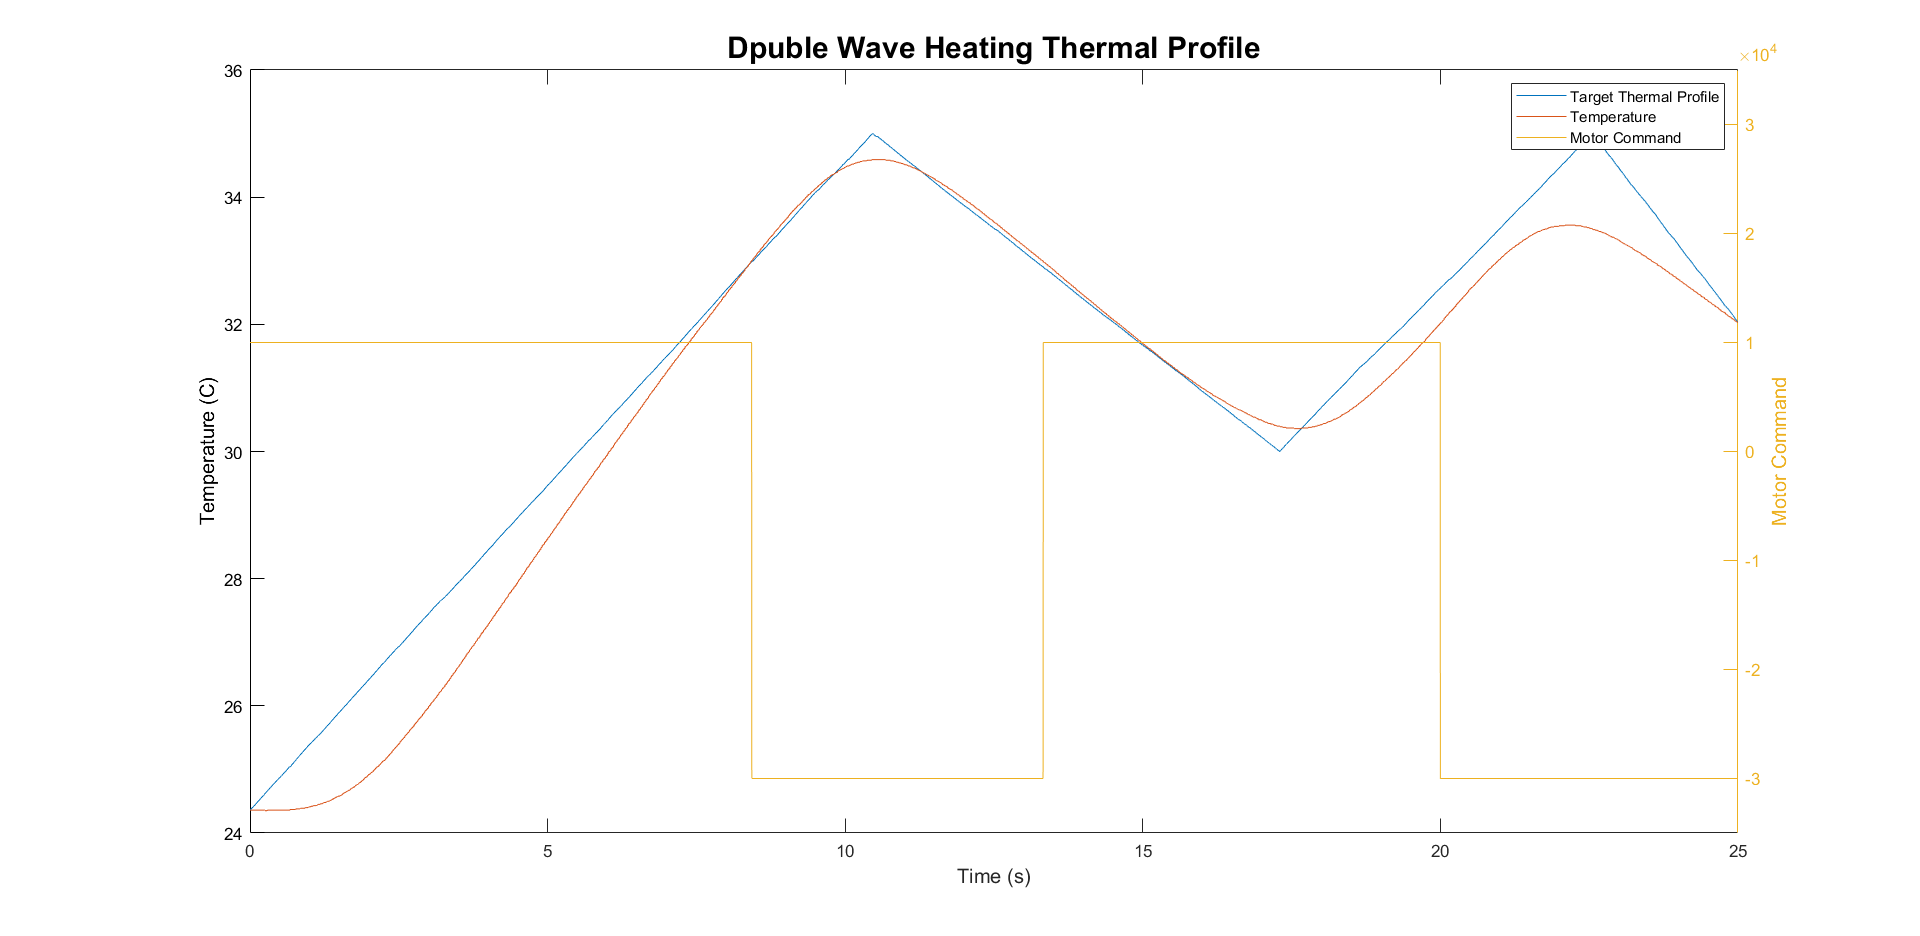
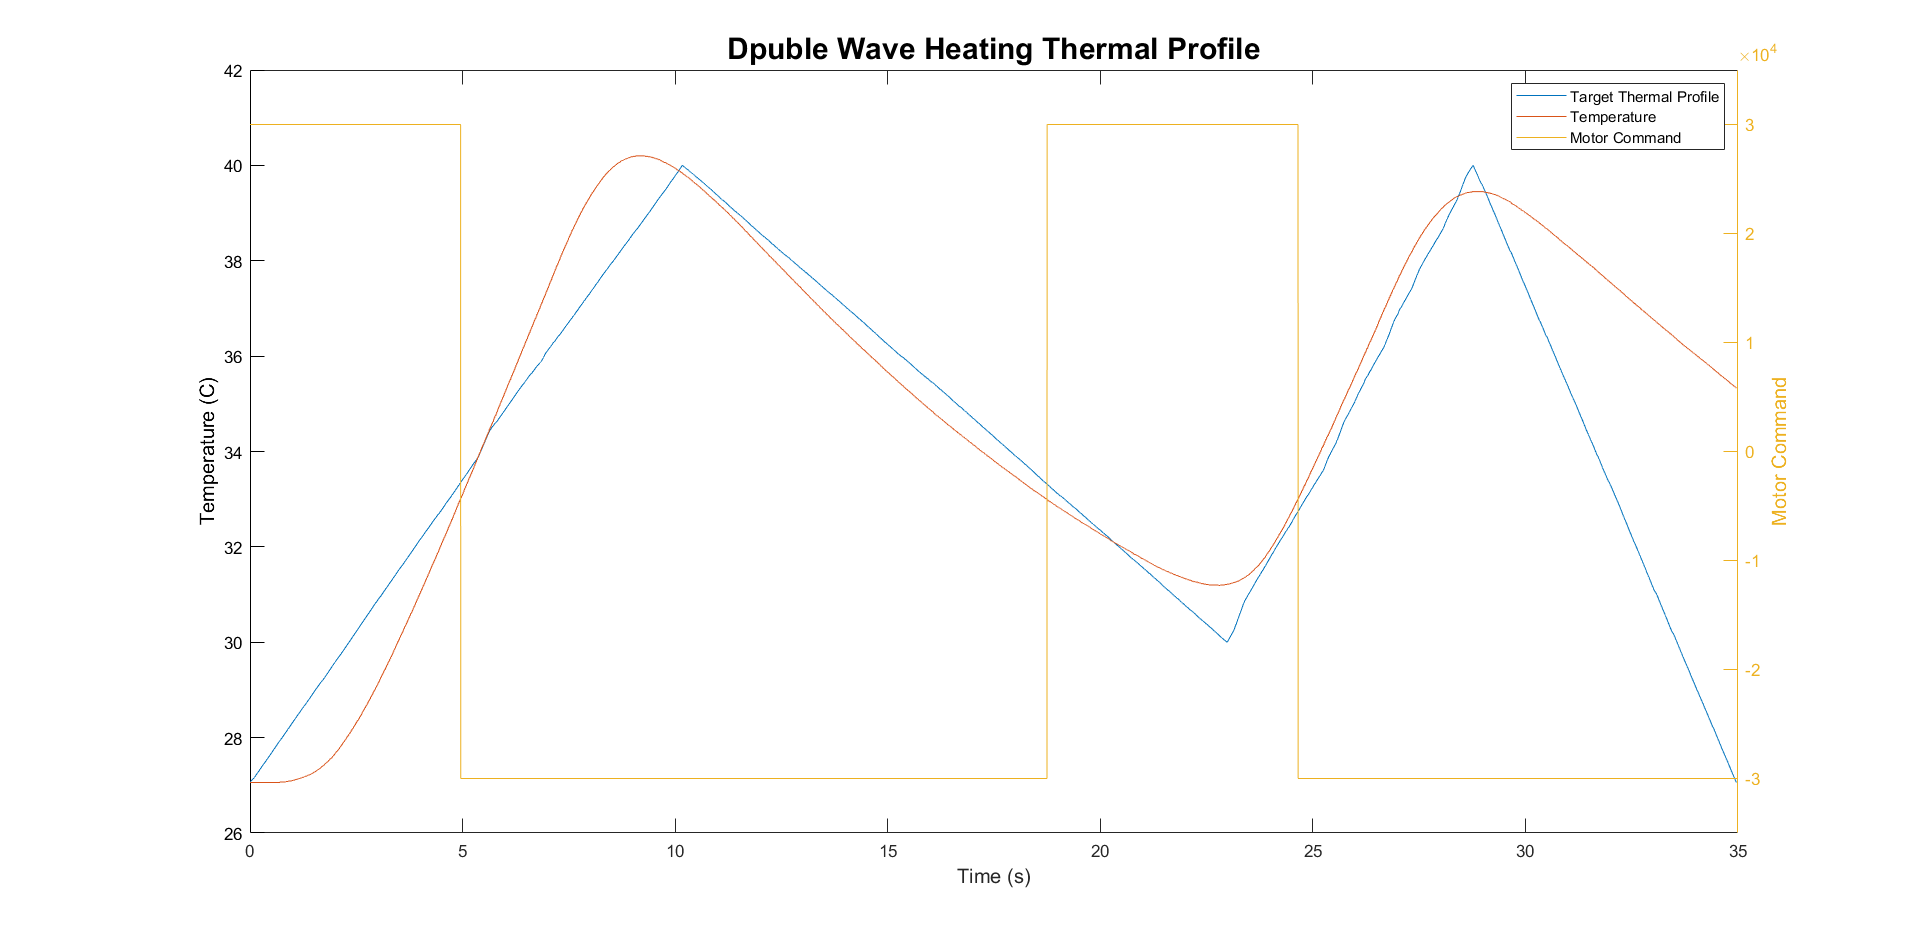
finished thermal profiles

diff --git a/thermalprofiles.py b/thermalprofiles.py
@@ -52,7 +52,6 @@ def cb_temperature(temperature):
     PTC_temperature = temperature/100.0
 
 def squarewave():
-    t0 = time.time()
     t = 0
 
     while t < 25:
@@ -78,7 +77,6 @@ def squarewave():
             f.close()
 
 def ramp():
-    t0 = time.time()
     t = 0
 
     while t < 25:
@@ -102,7 +100,6 @@ def ramp():
             f.close()
 
 def peaks():
-    t0 = time.time()
     t = 0
 
     while t < 35:
@@ -114,7 +111,7 @@ def peaks():
         if PTC_temperature + 5 < goal_temperature:
             control = 30000   
         else:
-            control = -30000
+            control = 0
 
         if -30000 > control or control > 30000:
             control = 30000 * numpy.sign(control)
@@ -161,10 +158,9 @@ if __name__ == "__main__":
     # Set period for temperature callback to 1s (1000ms)
     ptc.set_temperature_callback_configuration(100, False, "x", 0, 0)
 
-    mode = 1
+    mode = 2
 
     if mode == 0:
-        print("square wave")
         squarewave()
     elif mode == 1:
         ramp()

diff --git a/graphing.m b/graphing.m
@@ -70,15 +70,15 @@ legend('Target Thermal Profile', 'Temperature', 'Motor Command')
 
 %% double wave shape
 
-filename = Untitled2;
+filename = Untitled5;
 
 time = filename.time - filename.time(1);
-x = height(time) - 6748;
+x = height(time) - 8995;
 
-goal_temp = 35;
+goal_temp = 40;
 
-x = [linspace(filename.temp(1), goal_temp, 3131), linspace(goal_temp, 30, 2068), ....
-    linspace(30, goal_temp, 1549), linspace(goal_temp, filename.temp(end), x)];
+x = [linspace(filename.temp(1), goal_temp, 3131), linspace(goal_temp, 30, 3841), ....
+    linspace(30, goal_temp, 2023), linspace(goal_temp, filename.temp(1), x)];
 
 figure;
 plot(time, x)
